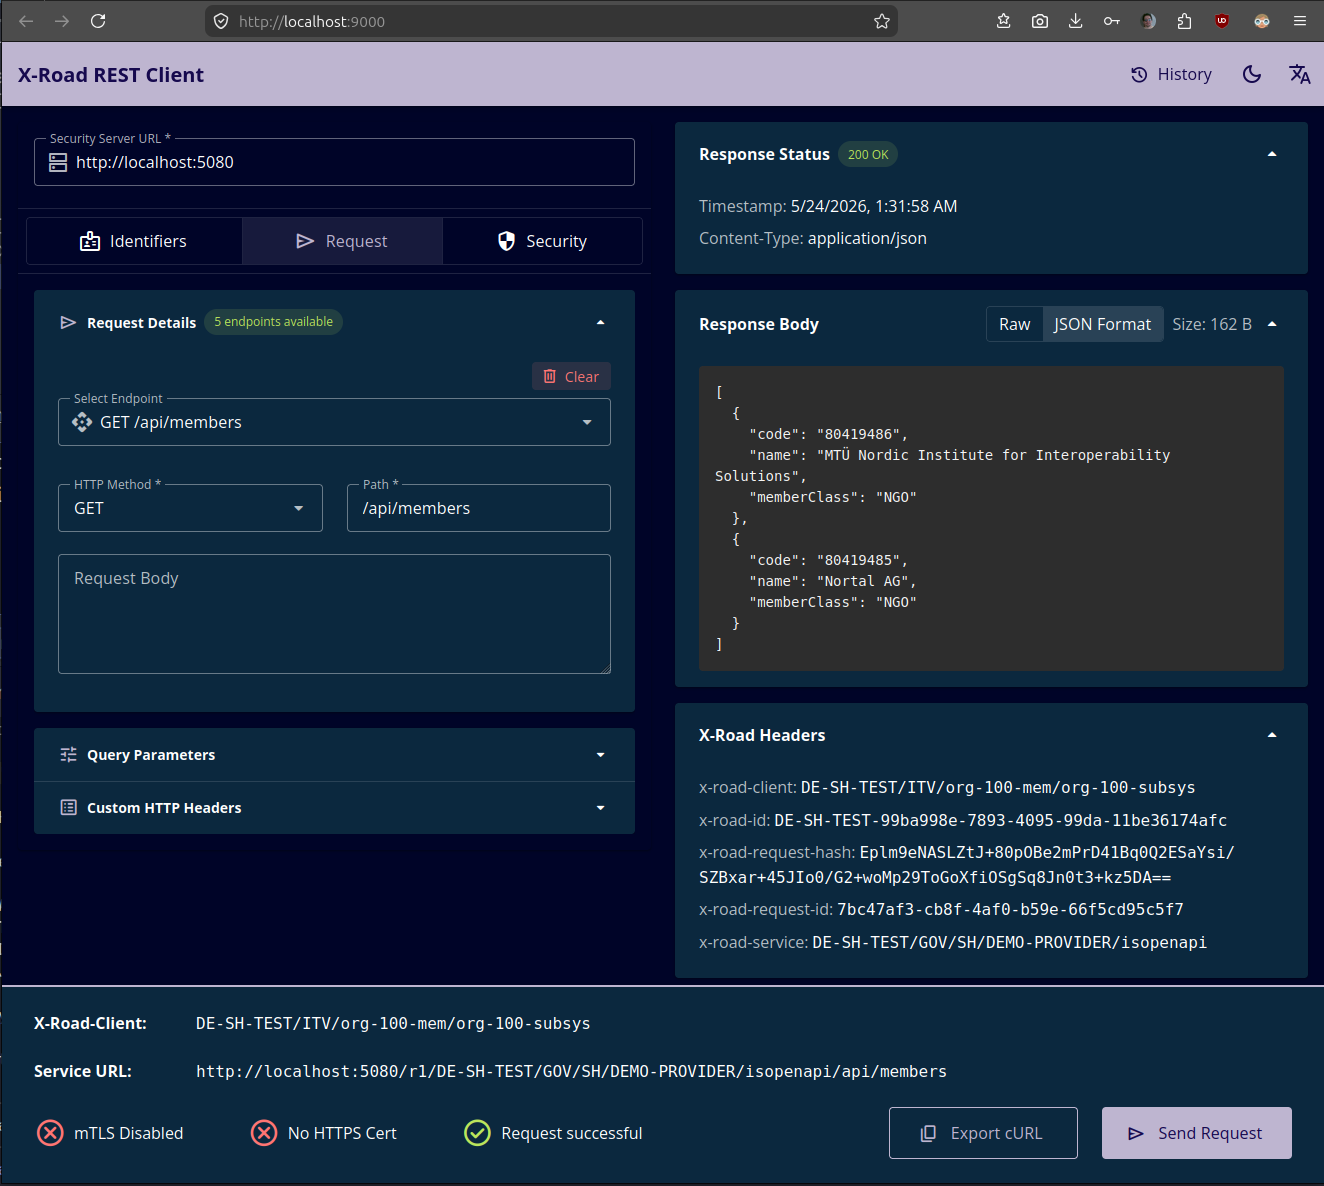
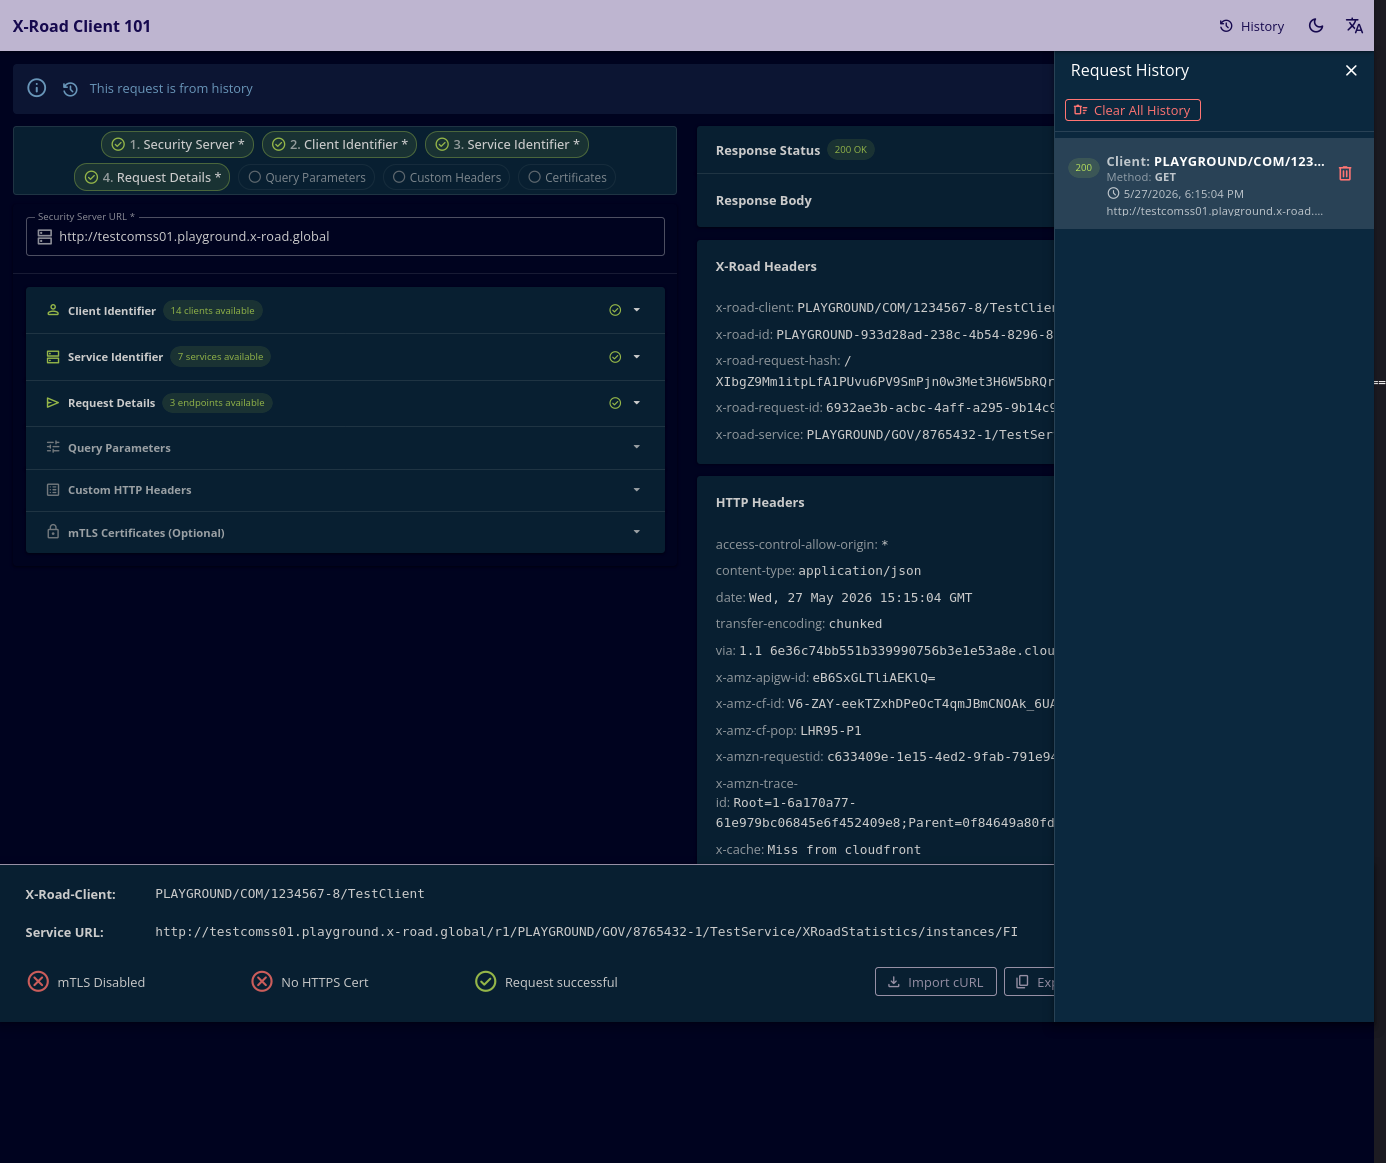
chore: Update screenshots to latest UI

diff --git a/README.md b/README.md
@@ -119,14 +119,14 @@ cd src/main/webapp && pnpm type-check
 
 ## Screenshots
 
-**Client and service identifiers with auto-complete dropdowns**
+**Client and service identifiers**
 
-![Identifiers Tab](images/IDs-tab.png)
+![Identifiers Tab](images/IDs.png)
 
-**Request configuration, response viewer, and request history**
+**Request configuration and response viewer**
 
-![Request Tab](images/Request-tab.png)
+![Request Tab](images/Request.png)
 
-**Dark theme**
+**Dark theme and request history**
 
 ![Dark Theme](images/dark-theme.png)
